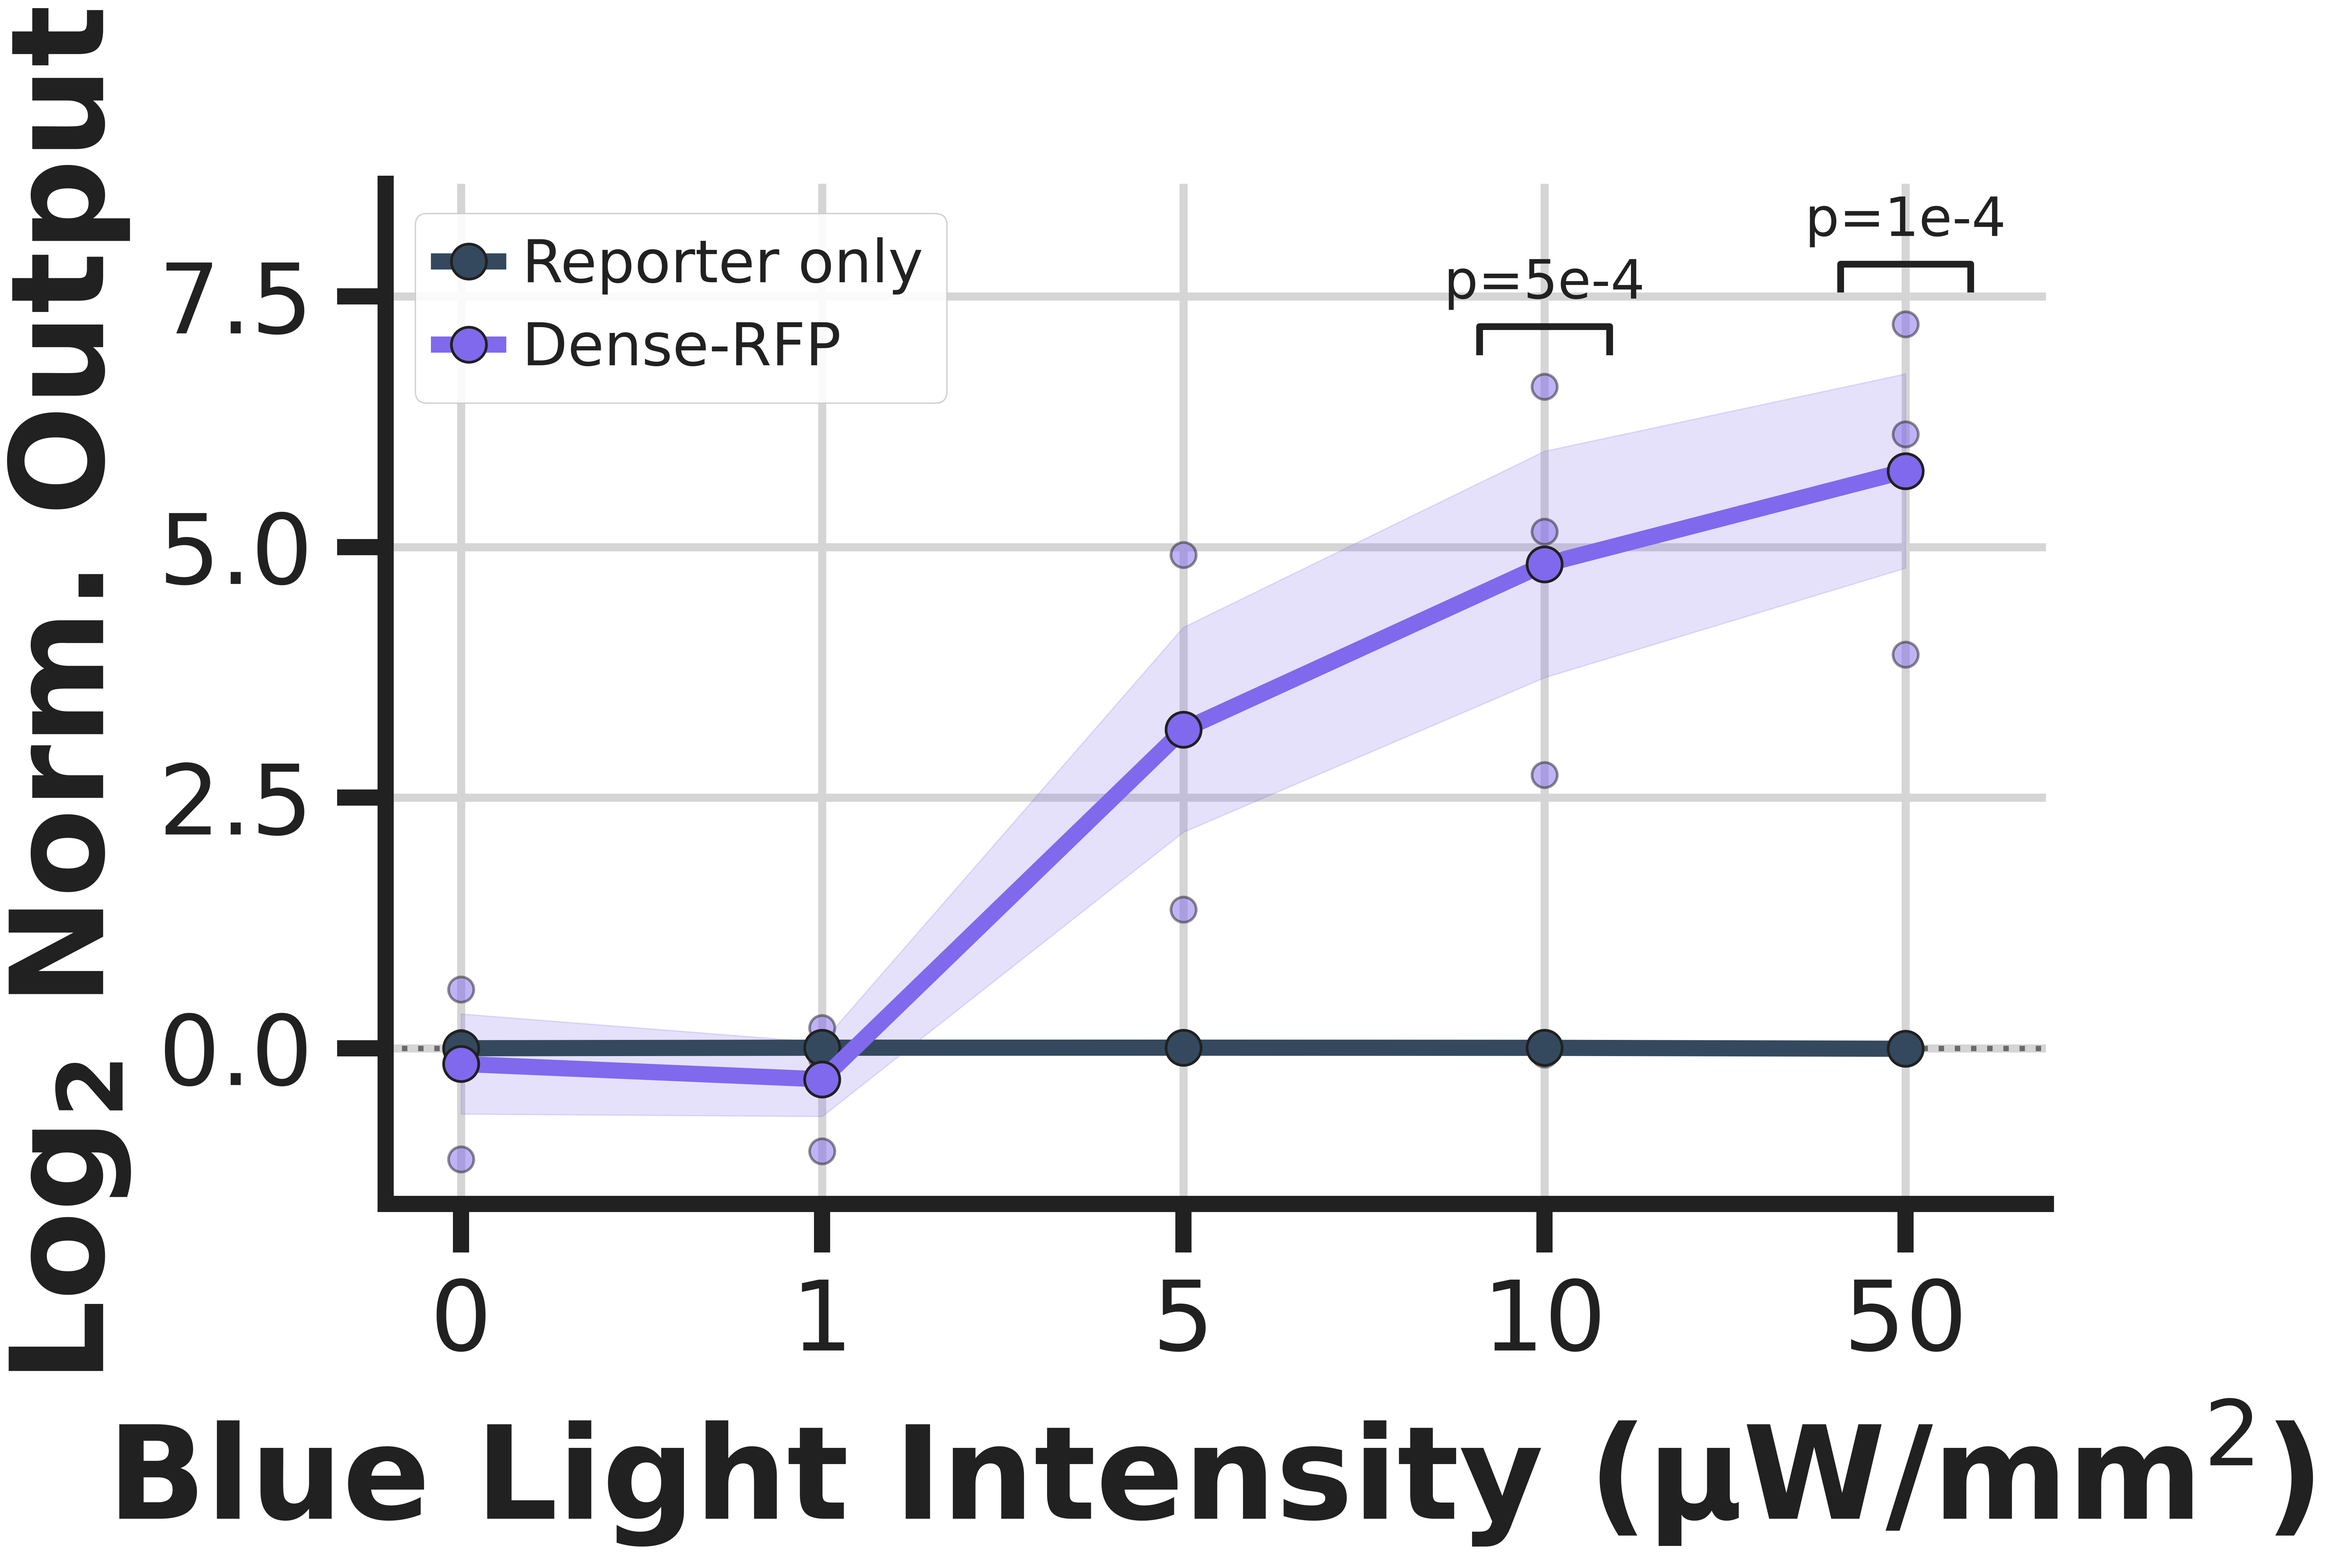
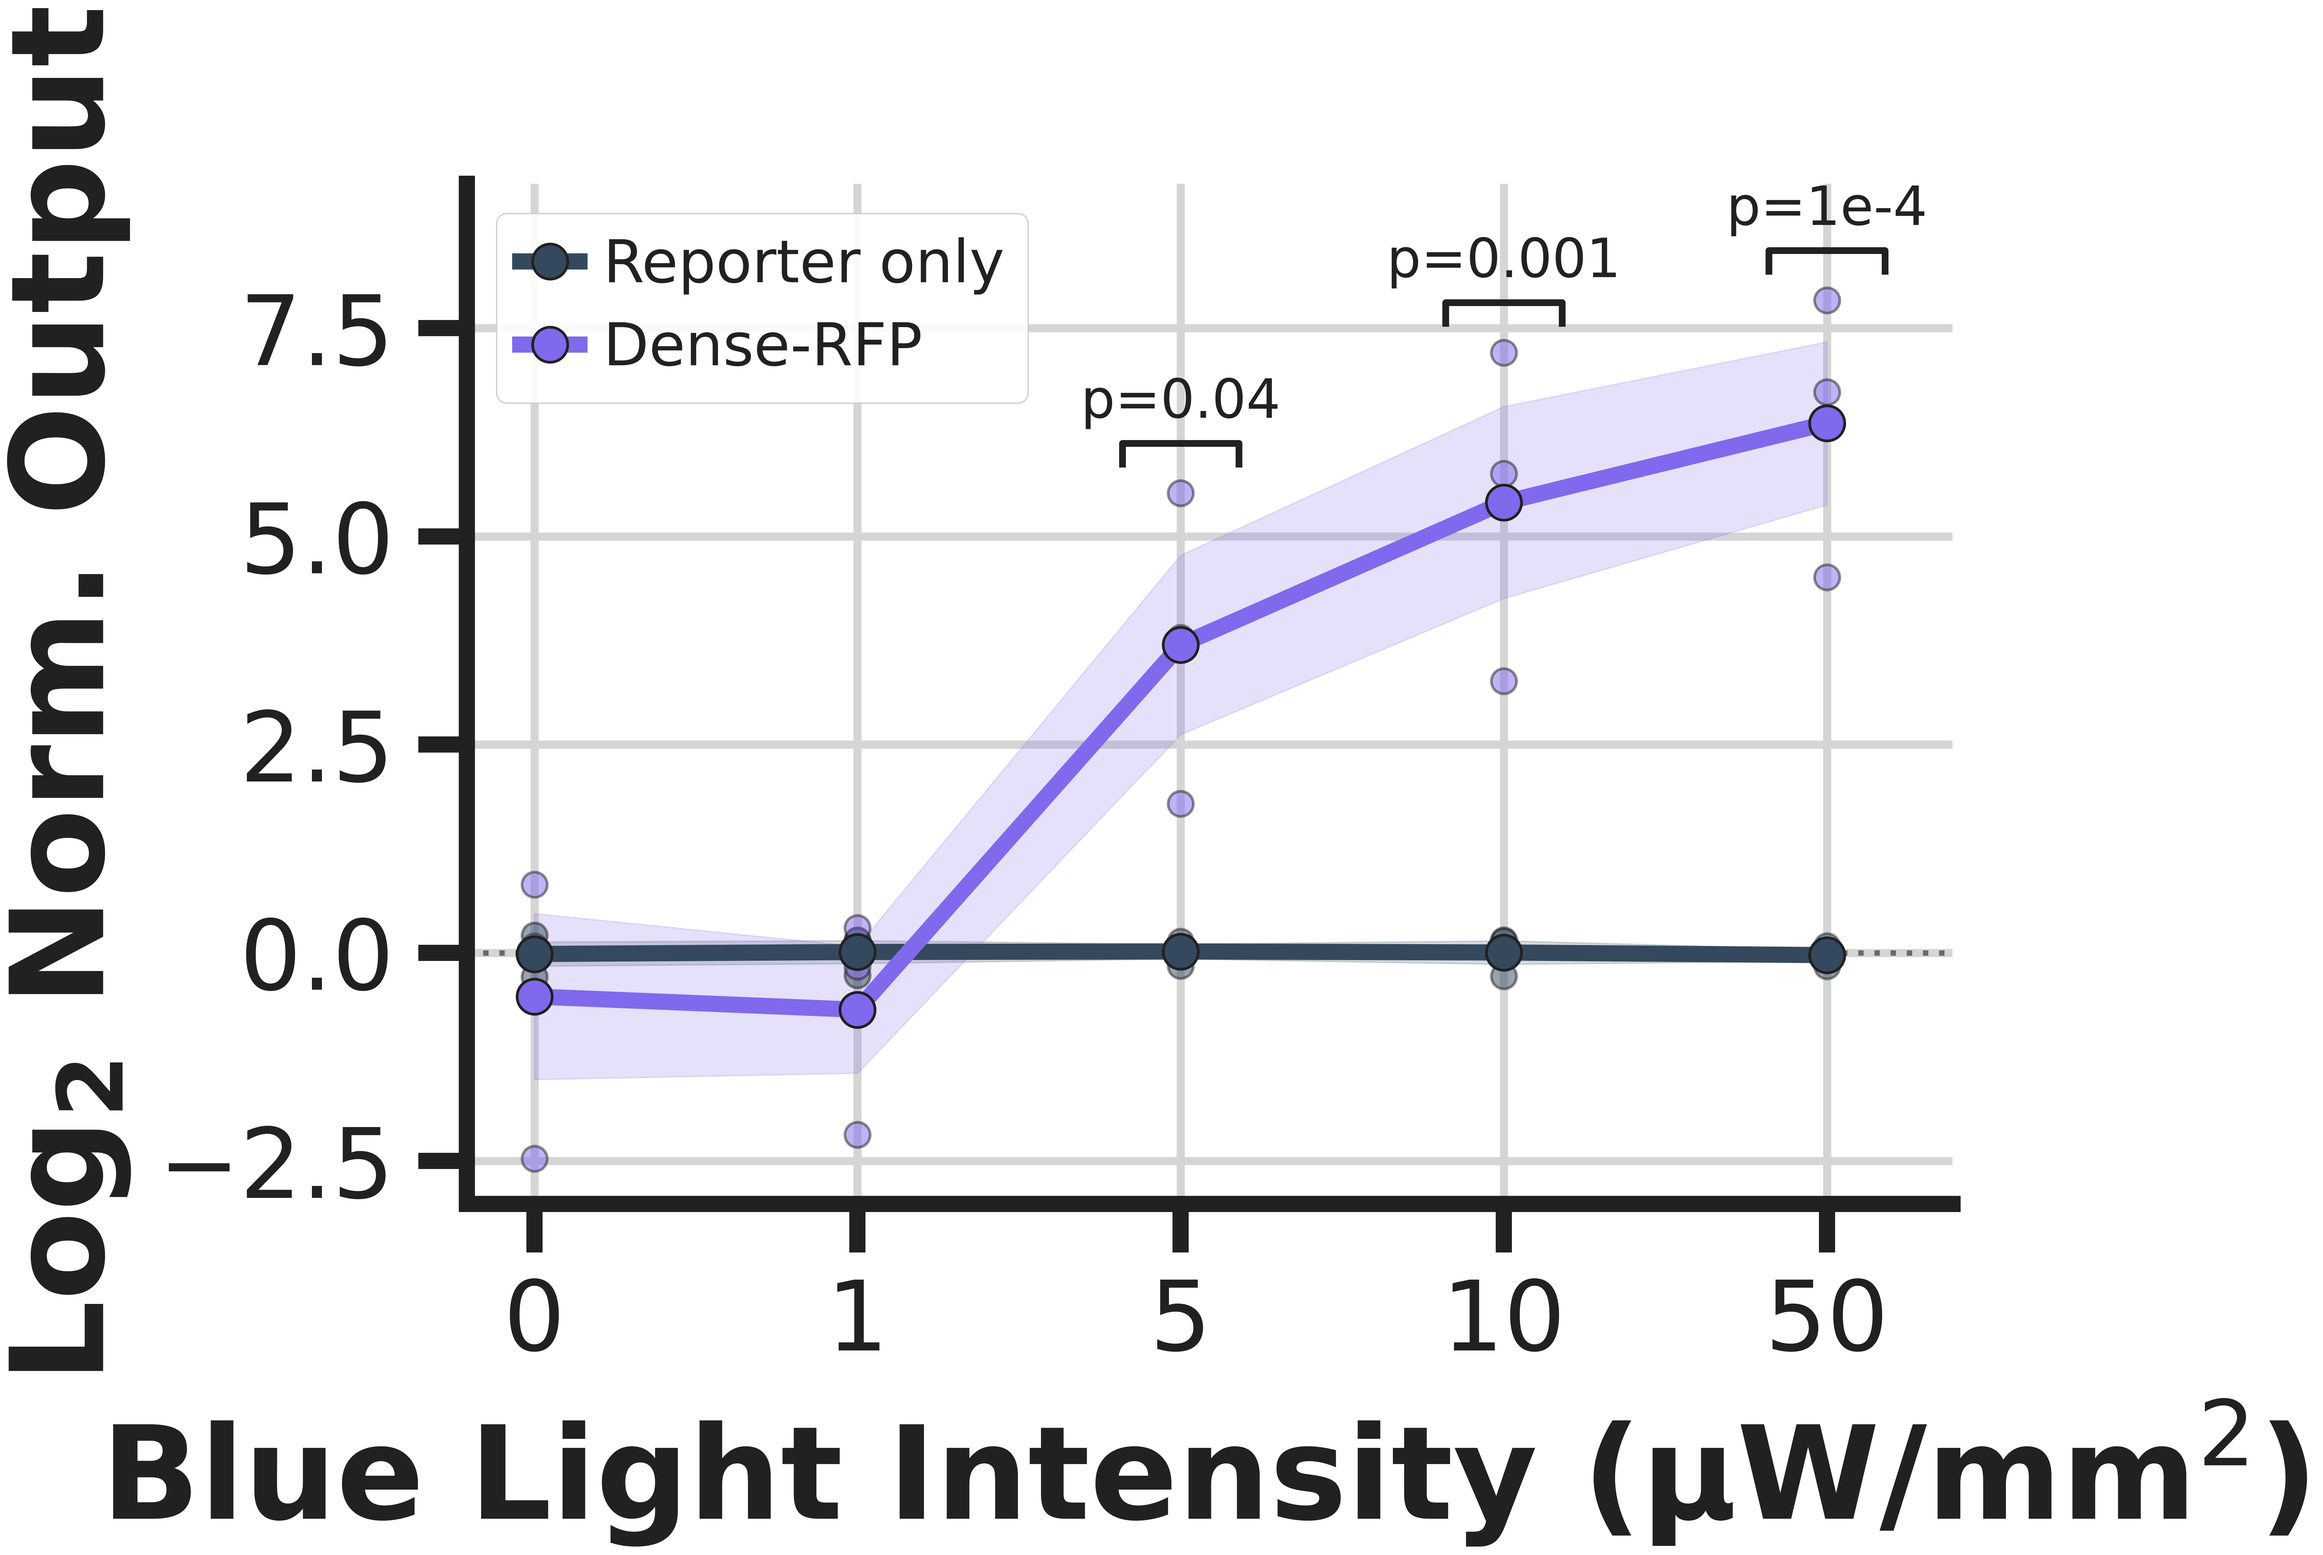
Fix Fig 4b low-signal floor + Fig 5b comparison/titles
- load_log2fc gains a `floor` parameter; Fig 4b (intensity, baselines ~1e-6)
  uses a smaller pseudocount so the reporter-only control shows its real
  per-replicate scatter instead of being flattened to 0. Line plot kept;
  reporter-only vs Dense-RFP Tukey brackets at 5/10/50 uW.
- Fig 5b: bracket is now Dense-vs-Sparse input in both panels (CD19 p=3e-7,
  PSMA p=4e-5); titles renamed Dense-CD19 / Sparse-PSMA.
- plot_grouped_strip gains xlabel/xtick_labels params.

Claude-Session: https://claude.ai/code/session_01M52styuVAxmJJ5cFY8zBhp

diff --git a/analyze_expression.py b/analyze_expression.py
@@ -40,15 +40,21 @@ REPORTER = {"0--dense-YFP": "Dense-YFP", "1--sparse-RFP": "Sparse-RFP",
 FLOOR = 1e-5  # detection floor for the log2 fold-ratio (None means are ~1e-4)
 
 
-def load_log2fc(base, reporter_map=None, input_map=None, baseline="None"):
+def load_log2fc(base, reporter_map=None, input_map=None, baseline="None", floor=None):
     """Per-replicate log2 fold-ratio to ``baseline`` (per reporter).
 
     ``reporter_map`` / ``input_map`` translate the folder names at the reporter
     (path[-5]) and input (path[-4]) levels; both default to the FM maps. The
     per-reporter ``baseline`` condition is the normalization reference.
+
+    ``floor`` is the pseudocount added before the ratio (guards log2(0) and damps
+    noise near zero). Default = FLOOR (1e-5, tuned for the FM assays whose baselines
+    are ~1e-4). Pass a smaller value for lower-signal datasets (e.g. the intensity
+    sweep, baselines ~1e-6) so the pseudocount doesn't swamp the real signal.
     """
     reporter_map = REPORTER if reporter_map is None else reporter_map
     input_map = INPUT if input_map is None else input_map
+    floor = FLOOR if floor is None else floor
     rows = []
     for rd in (D / base).rglob("results/y.csv"):
         p = rd.parts
@@ -57,7 +63,7 @@ def load_log2fc(base, reporter_map=None, input_map=None, baseline="None"):
                          raw=float(pd.read_csv(rd).y.mean())))
     df = pd.DataFrame(rows)
     base_mean = df[df.input == baseline].groupby("reporter").raw.mean()  # per-reporter baseline
-    df["value"] = np.log2((df.raw + FLOOR) / (df.reporter.map(base_mean) + FLOOR))
+    df["value"] = np.log2((df.raw + floor) / (df.reporter.map(base_mean) + floor))
     return df
 
 
@@ -100,7 +106,8 @@ def report(name, df, order):
 
 
 def plot_grouped_strip(df, order, out, reporters, pvals=None, ylabel=None,
-                       interaction_p=None, legend_loc="upper left"):
+                       interaction_p=None, legend_loc="upper left",
+                       xlabel=None, xtick_labels=None):
     """Fig 4g-style: reporters dodged within each input; per-rep points + mean±SEM."""
     rng = np.random.default_rng(0)
     offs = np.linspace(-0.18, 0.18, len(reporters))
@@ -130,7 +137,9 @@ def plot_grouped_strip(df, order, out, reporters, pvals=None, ylabel=None,
                    label=r) for r in reporters]
         ax.legend(handles=handles, loc=legend_loc, framealpha=0.9, fontsize=44)
         ax.set_xticks(range(len(order)))
-        ax.set_xticklabels([f"{o}\nInput" for o in order])
+        ax.set_xticklabels(xtick_labels or [f"{o}\nInput" for o in order])
+        if xlabel:
+            ax.set_xlabel(xlabel)
         ax.set_ylabel(ylabel or r"$\mathbf{Log_2}$ Norm. Output")
         ax.set_xlim(-0.6, len(order) - 0.4)
         ax.set_ylim(top=df.value.max() + 1.4)
@@ -297,10 +306,13 @@ def main():
             "3--BL10uW": "10", "4--BL50uW": "50"}
     rmap = {"0--reporter-only": "Reporter only", "1--dense-RFP": "Dense-RFP"}
     iorder = ["0", "1", "5", "10", "50"]
-    fb = load_log2fc("0--293T-intensity", reporter_map=rmap, input_map=imap, baseline="0")
+    # low-signal dataset (baselines ~1e-6) -> small floor so the pseudocount does
+    # not flatten the reporter-only control's real (small) intensity scatter.
+    fb = load_log2fc("0--293T-intensity", reporter_map=rmap, input_map=imap,
+                     baseline="0", floor=1e-7)
     _, _ = report("INTENSITY (Fig 4b)", fb, iorder)
     ireps = ["Reporter only", "Dense-RFP"]
-    pv = freq_reporter_pvals(fb, ["10", "50"], ireps)  # sig at higher intensities
+    pv = freq_reporter_pvals(fb, ["5", "10", "50"], ireps)  # reporter-only vs Dense-RFP
     for inp, p in pv.items():
         print(f"  Reporter-only vs Dense-RFP at {inp} uW: {format_p(p)}")
     out = plot_freq_response(

diff --git a/analyze_antigen_flow.py b/analyze_antigen_flow.py
@@ -85,27 +85,27 @@ def analyze(marker, title):
 
 
 def plot(panels, out):
-    """panels: list of (df, title, pvals, matched_input) -- draws the decoder's
-    matched-input vs None bracket per panel."""
+    """panels: list of (df, title, pvals) -- draws the Dense-vs-Sparse input
+    bracket per panel (the decoder's frequency selectivity)."""
     rng = np.random.default_rng(0)
     with mpl.rc_context(STYLE):
         fig, axes = plt.subplots(1, 2, figsize=(30, 15), sharey=True)
-        for ax, (df, title, pvals, matched) in zip(axes, panels):
+        for ax, (df, title, pvals) in zip(axes, panels):
             for x, g in enumerate(ORDER):
                 v = df[df.group == g].pct_pos.to_numpy()
                 ax.scatter(x + rng.uniform(-0.08, 0.08, len(v)), v, s=550,
                            color=GCOLOR[g], alpha=0.85, linewidths=2, edgecolors=INK, zorder=3)
                 ax.errorbar(x, v.mean(), yerr=errorbar_halfwidth(v, "sem"), fmt="o", ms=22,
                             color=INK, ecolor=INK, elinewidth=8, capsize=16, capthick=8, zorder=4)
-            # bracket: matched decoder input vs None (the "decoder turns on" test)
-            p = pvals.get(frozenset((matched, "None")))
+            # bracket: Dense vs Sparse input (frequency selectivity)
+            p = pvals.get(frozenset(("Dense", "Sparse")))
             if p is not None:
-                x1, x2 = ORDER.index("None"), ORDER.index(matched)
+                x1, x2 = ORDER.index("Sparse"), ORDER.index("Dense")
                 y = df.pct_pos.max() + 10
                 ax.plot([x1, x1, x2, x2], [y - 4, y, y, y - 4], color=INK, lw=5)
                 ax.text((x1 + x2) / 2, y + 1, format_p(p), ha="center", va="bottom",
                         fontsize=44, color=INK)
-            ax.set_title(f"{title} antigen", fontsize=64)
+            ax.set_title(title, fontsize=64)
             ax.set_xticks(range(len(ORDER)))
             ax.set_xticklabels(ORDER, rotation=35, ha="right")
             ax.set_xlim(-0.6, len(ORDER) - 0.4)
@@ -120,7 +120,7 @@ def plot(panels, out):
 def main():
     cd19, cd_p = analyze("0--CD19", "CD19 (Dense-CD19 decoder)")
     psma, ps_p = analyze("1--PSMA", "PSMA (Sparse-PSMA decoder)")
-    out = plot([(cd19, "CD19", cd_p, "Dense"), (psma, "PSMA", ps_p, "Sparse")],
+    out = plot([(cd19, "Dense-CD19", cd_p), (psma, "Sparse-PSMA", ps_p)],
                RESULTS / "fig_5b_antigen_flow.png")
     print("\nsaved", out)
 
